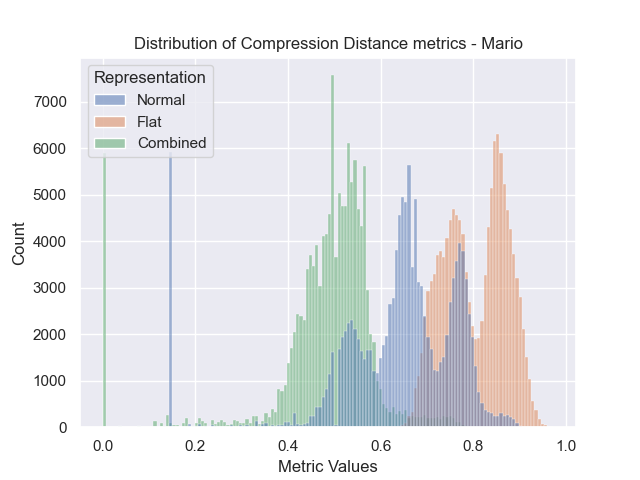
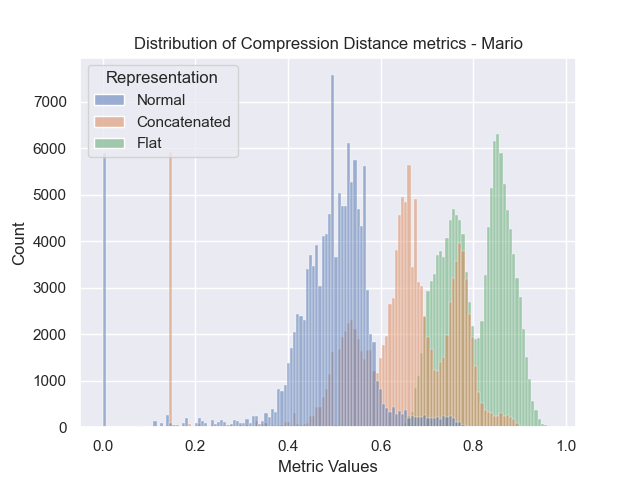
Some minor changes

diff --git a/src/results/v400/methods/cd.tex b/src/results/v400/methods/cd.tex
@@ -4,12 +4,12 @@
 \multicolumn{1}{c}{} & \multicolumn{1}{c}{Compression} & \multicolumn{1}{c}{A* Diversity} & \multicolumn{1}{c}{Compression} & \multicolumn{1}{c}{A* Diversity}\\
 {} & \multicolumn{1}{c}{Distance} & \multicolumn{1}{c}{(Edit)} & \multicolumn{1}{c}{Distance} & \multicolumn{1}{c}{(Edit)}\\
 \midrule
-NoveltyNEAT (Ours) &                        0.488 (0.002) &                       0.13 (0.17) &                     0.64 (0.12) &                        0.38 (0.11) \\
-DirectGA           &                                    - &                                 - &                        0.55 (0) &  $\textbf{0.10 (0.01)}^{*\dagger}$ \\
-DirectGA+          &   $\textbf{0.493 (0.002)}^{\dagger}$ &  $\textbf{0.41 (0.01)}^{\dagger}$ &                        0.67 (0) &                           0.33 (0) \\
-DirectGA (Novelty) &   $\textbf{0.494 (0.002)}^{\dagger}$ &  $\textbf{0.40 (0.01)}^{\dagger}$ &  $\textbf{0.47 (0)}^{*\dagger}$ &                        0.20 (0.01) \\
-PCGRL (Wide)       &  $\textbf{0.525 (0.021)}^{*\dagger}$ &  $\textbf{0.43 (0.01)}^{\dagger}$ &                        0.78 (0) &     $\textbf{0.55 (0)}^{*\dagger}$ \\
-PCGRL (Turtle)     &  $\textbf{0.513 (0.006)}^{*\dagger}$ &  $\textbf{0.43 (0.01)}^{\dagger}$ &                        0.78 (0) &     $\textbf{0.55 (0)}^{*\dagger}$ \\
+NoveltyNEAT (Ours) &                        0.488 (0.002) &                       0.13 (0.17) &          0.45 (0.10) &                        0.38 (0.11) \\
+DirectGA           &                                    - &                                 - &             0.46 (0) &  $\textbf{0.10 (0.01)}^{*\dagger}$ \\
+DirectGA+          &   $\textbf{0.493 (0.002)}^{\dagger}$ &  $\textbf{0.41 (0.01)}^{\dagger}$ &             0.55 (0) &                           0.33 (0) \\
+DirectGA (Novelty) &   $\textbf{0.494 (0.002)}^{\dagger}$ &  $\textbf{0.40 (0.01)}^{\dagger}$ &          0.44 (0.01) &                        0.20 (0.01) \\
+PCGRL (Wide)       &  $\textbf{0.525 (0.021)}^{*\dagger}$ &  $\textbf{0.43 (0.01)}^{\dagger}$ &             0.56 (0) &     $\textbf{0.55 (0)}^{*\dagger}$ \\
+PCGRL (Turtle)     &  $\textbf{0.513 (0.006)}^{*\dagger}$ &  $\textbf{0.43 (0.01)}^{\dagger}$ &             0.56 (0) &     $\textbf{0.55 (0)}^{*\dagger}$ \\
 \bottomrule
 \end{tabular}
 

diff --git a/src/analysis/proper_experiments/v400/analyse_all_metrics_properly.py b/src/analysis/proper_experiments/v400/analyse_all_metrics_properly.py
@@ -110,9 +110,9 @@ def get_mario_202_data(return_alls2=False, return_parents=False):
     return alls
 
 mapping = {
-    'CompressionDistanceMetric': "Normal",
+    'CompressionDistanceMetric': "Concatenated",
     'CompressionDistanceMetric_FlatMario': "Flat",
-    'CompressionDistanceMetric_CombinedFeatures': "Combined"
+    'CompressionDistanceMetric_CombinedFeatures': "Normal"
 }
 
 def v452_b_cd_size_dependent_with_direct_ga_get_data():
@@ -198,9 +198,9 @@ def v453_cd_dependent_on_representation():
         plt.close()
     
     keys_to_consider = [
+        'CompressionDistanceMetric_CombinedFeatures',
         'CompressionDistanceMetric',
         'CompressionDistanceMetric_FlatMario',
-        'CompressionDistanceMetric_CombinedFeatures'
     ]
 
     palette = dict(zip(map(lambda M: clean_metric(mapping[M]), keys_to_consider), sns.color_palette(n_colors=len(keys_to_consider))))

diff --git a/src/analysis/proper_experiments/v400/analyse_all_statistical_tests.py b/src/analysis/proper_experiments/v400/analyse_all_statistical_tests.py
@@ -391,6 +391,12 @@ def general_thing(name_to_save_as: str, metric_names_to_use: List[str], alternat
             dic_of_mean_stds, dic_of_all_values = get_all_results_from_methods_maze()
         else:
             dic_of_mean_stds, dic_of_all_values = get_all_results_from_methods_mario()
+        
+        if game == "Mario" and name_to_save_as == 'cd':
+            for k in dic_of_all_values:
+                # Set this so that we use the correct CD metric, i.e. combined
+                dic_of_all_values[k]['CompressionDistanceMetric'] = dic_of_all_values[k]['CompressionDistanceMetric CombinedFeatures']
+                
         for metric_name_to_use, alternative in zip(metric_names_to_use, alternatives):
             metric_values_to_compare_against = dic_of_all_values[DEFAULT_MONIKER].get(
                 metric_name_to_use, [-1] * 5)
